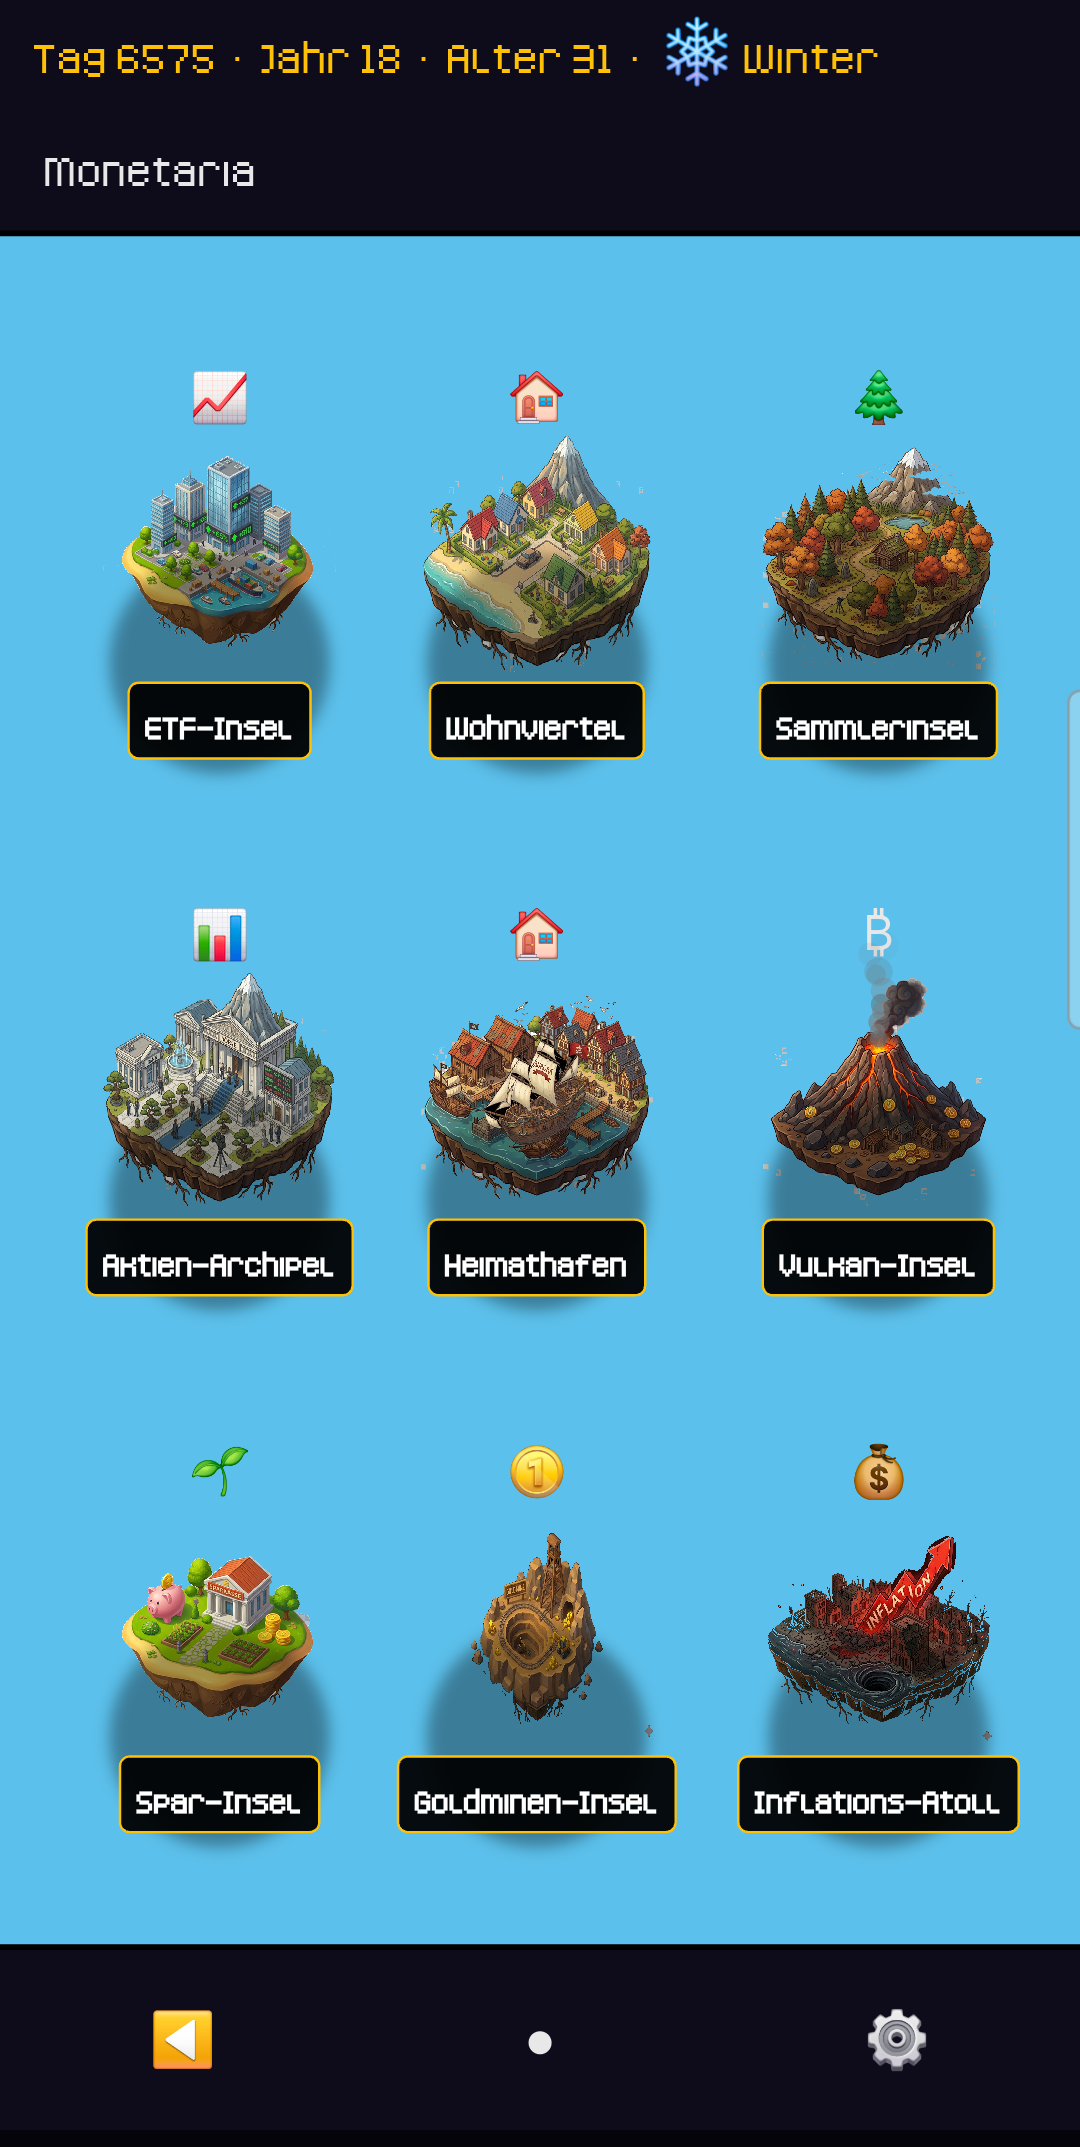
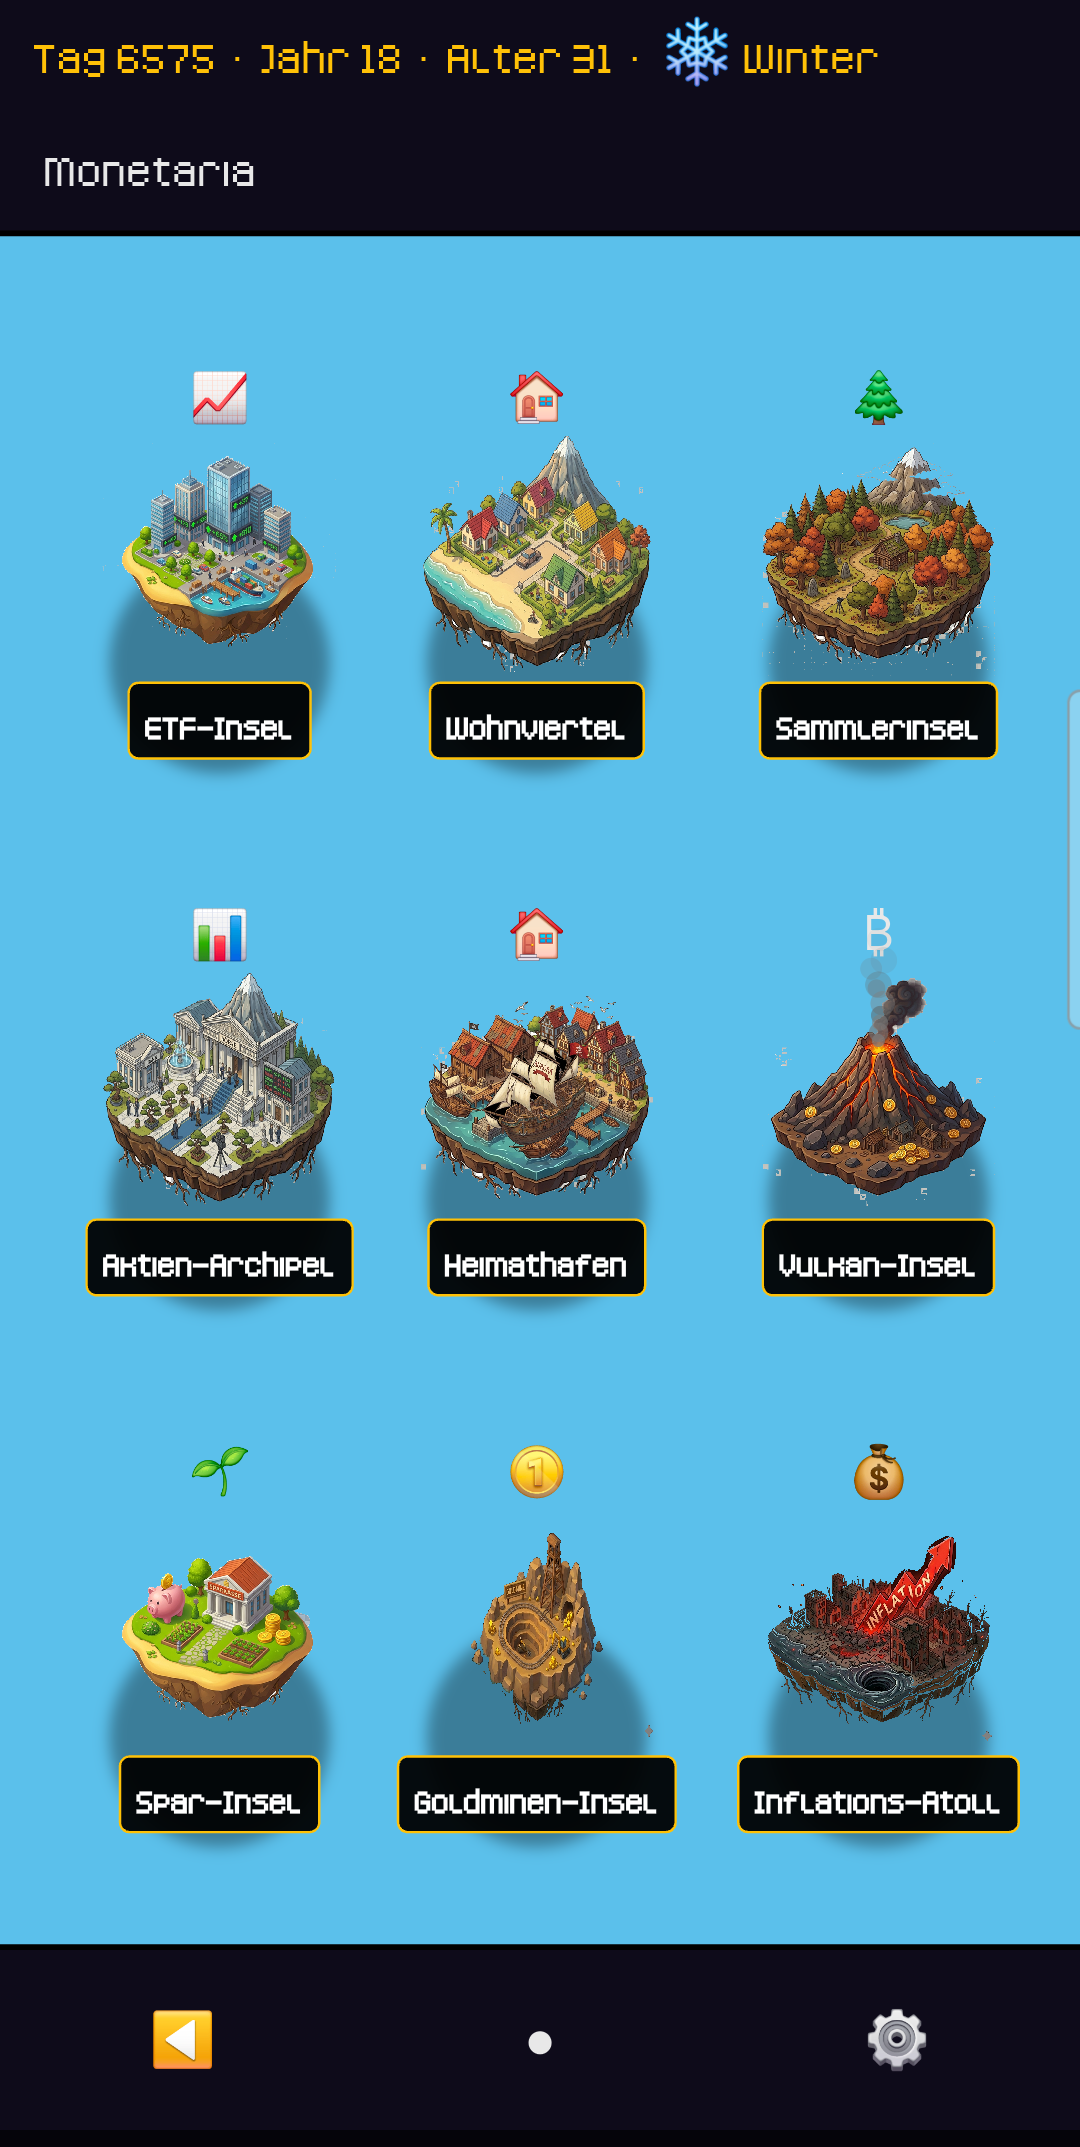
fix(monetaria): Insel-Schatten lag ueber der Insel statt darunter

diff --git a/test/game/monetaria/island_marker_render_test.dart b/test/game/monetaria/island_marker_render_test.dart
@@ -1,3 +1,4 @@
+import 'package:flame/components.dart';
 import 'package:flame/game.dart';
 import 'package:flame_test/flame_test.dart';
 import 'package:flutter_test/flutter_test.dart';
@@ -52,6 +53,45 @@ void main() {
           await game.add(marker);
           await game.ready();
           expect(marker.isMounted, isTrue);
+        },
+      );
+    }
+  });
+
+  // Der Schatten ist eine unscharfe schwarze Scheibe, die von 0,50 bis 1,40
+  // Durchmesser reicht — die untere Haelfte jeder Insel liegt also in ihrem
+  // Bereich. Liegt sie nicht ganz unten in der Zeichenreihenfolge, wird sie
+  // UEBER die Insel gemalt statt darunter, und die Insel wirkt unten
+  // abgedunkelt. Flame zeichnet nach priority aufsteigend, Hoeheres oben.
+  group('Insel-Schatten liegt hinter der Insel', () {
+    for (final id in allIds) {
+      testWithGame<_HostGame>(
+        '$id: Schatten hat die niedrigste priority',
+        _HostGame.new,
+        (game) async {
+          final marker = IslandMarker(
+            id: id,
+            label: id,
+            unlocked: true,
+            worldPosition: Vector2.zero(),
+            onSelected: (_) {},
+          );
+          await game.add(marker);
+          await game.ready();
+
+          final shadow = marker.children.whereType<CircleComponent>().single;
+          final others =
+              marker.children.where((c) => !identical(c, shadow)).toList();
+          expect(others, isNotEmpty);
+          for (final c in others) {
+            expect(
+              c.priority,
+              greaterThan(shadow.priority),
+              reason: '${c.runtimeType} (priority ${c.priority}) wird vor dem '
+                  'Schatten (priority ${shadow.priority}) gezeichnet und '
+                  'verschwindet damit dahinter',
+            );
+          }
         },
       );
     }

diff --git a/lib/game/monetaria/components/island_marker.dart b/lib/game/monetaria/components/island_marker.dart
@@ -102,11 +102,20 @@ class IslandMarker extends PositionComponent with TapCallbacks {
     final fill = unlocked ? _identity.color : _lockedGrey;
 
     // Spec-38 P3-4: ellipse-shadow under each island for iso depth.
+    //
+    // priority MUSS unter der Insel-Grafik liegen (die steht auf -1). Flame
+    // zeichnet nach priority aufsteigend, Hoeheres kommt obendrauf — die
+    // Reihenfolge der add()-Aufrufe entscheidet also nichts, sobald ein
+    // Bauteil eine eigene priority setzt. Ohne die -2 lag die unscharfe
+    // schwarze Scheibe UEBER der Insel: sie reicht von 0,50 bis 1,40
+    // Durchmesser, verdunkelte damit die untere Haelfte jeder Insel und sah
+    // aus wie ein Schatten, der auf die Insel faellt statt unter sie.
     add(
       CircleComponent(
         radius: _diameter * 0.45,
         position: Vector2(_diameter / 2, _diameter * 0.95),
         anchor: Anchor.center,
+        priority: -2,
         paint: Paint()
           ..color = const Color(0xFF000000).withValues(alpha: 0.35)
           ..maskFilter = const MaskFilter.blur(BlurStyle.normal, 6),
